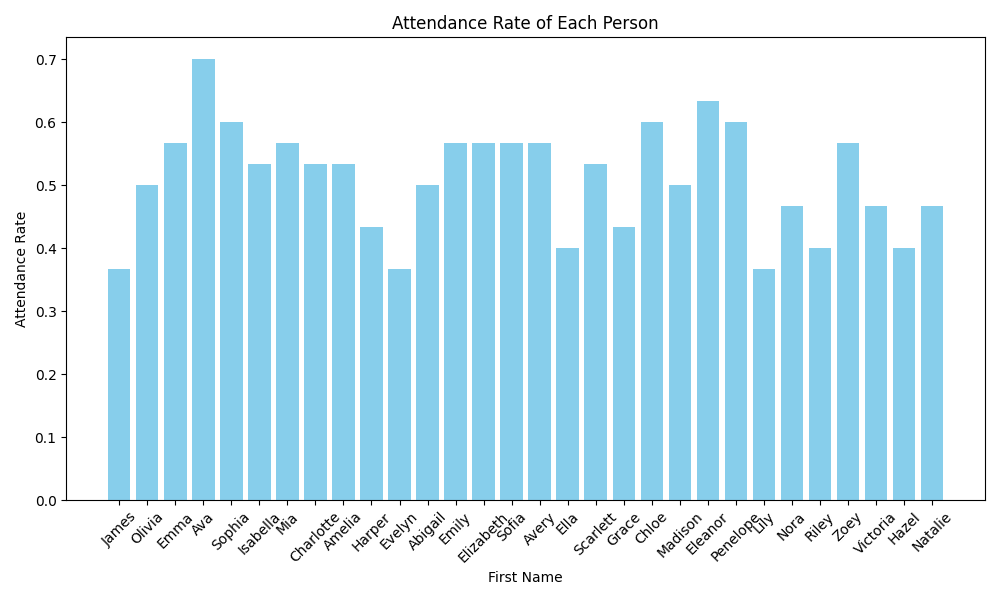
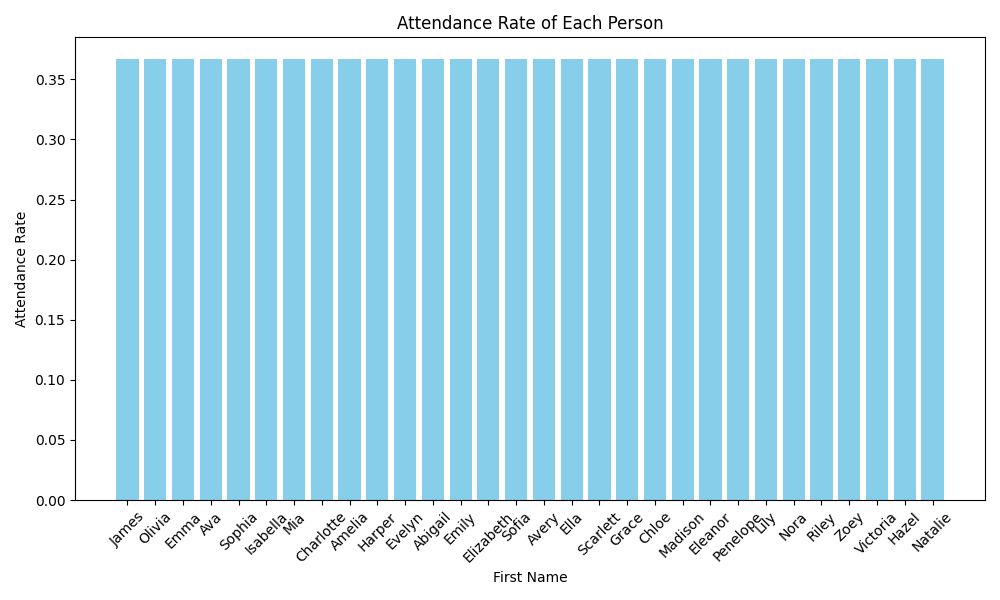
new Data analysis

diff --git a/Analysis_new.py b/Analysis_new.py
@@ -5,14 +5,9 @@ import matplotlib.pyplot as plt
 df = pd.read_excel('ExampleData.xlsx')
 
 
-# df['Sign-in-Count'] = df['Sign-in-Count'].apply(lambda x: eval(x))
-
 
 def sum_sign_in_count(lst):
     return sum(lst)
-
-
-# df['Sign-in-Count_Sum'] = df['Sign-in-Count'].apply(sum_sign_in_count)
 
 
 df['Attendance Rate'] = df['Total-Count'] / df['Class_num_finished']
